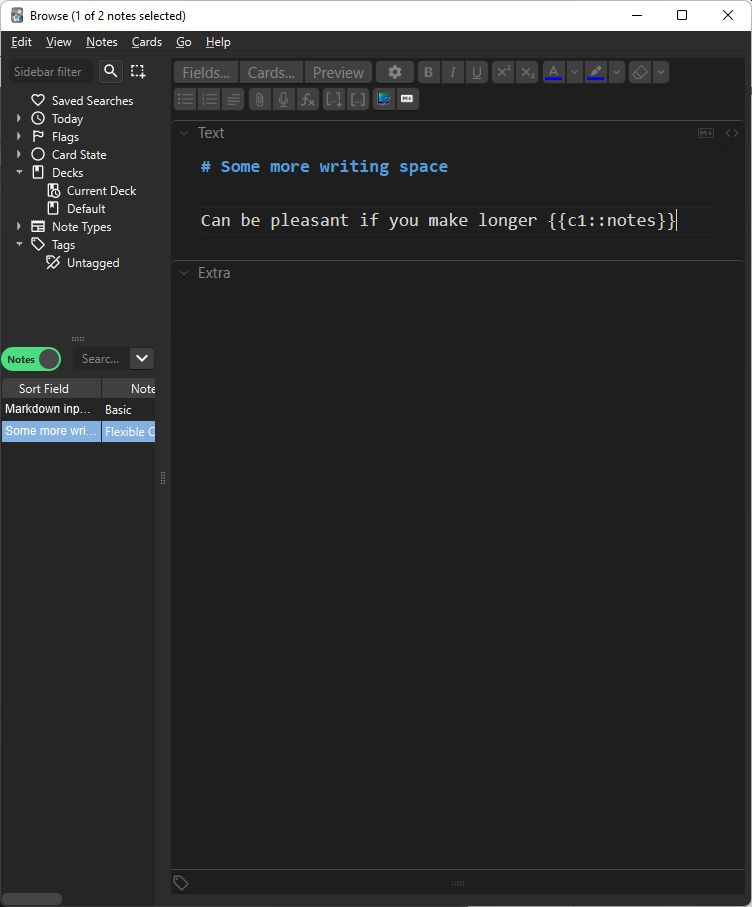
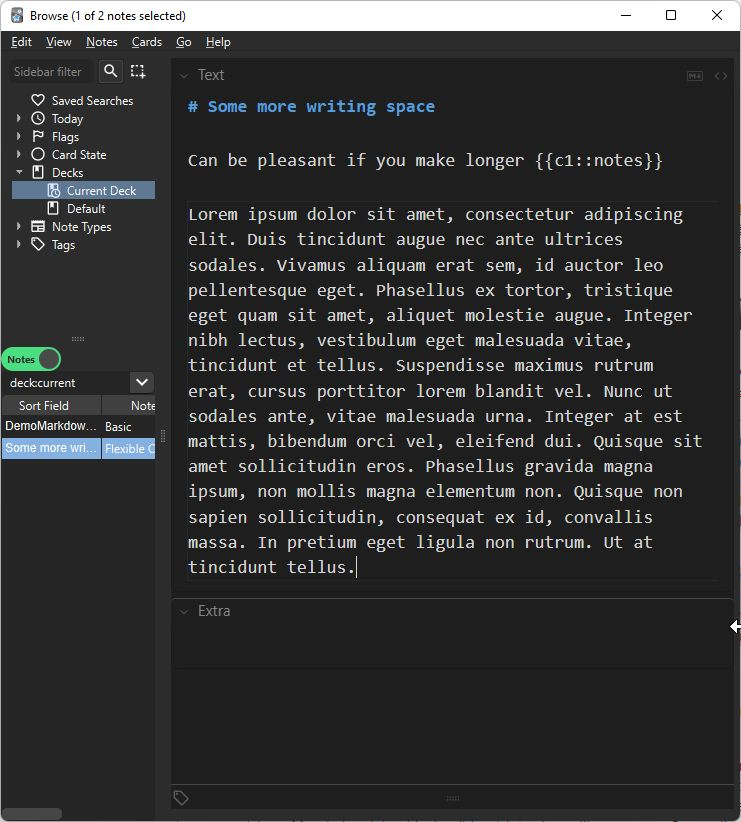
Move switch

diff --git a/bin/__init__.py b/bin/__init__.py
@@ -6,6 +6,7 @@ LABEL = "sidebar-table"
 
 #########################################################################
 def move(browser: browser):
+    """Move table to sidebar (inserting a splitter), saving/restoring splitter state"""
     # Direct copy from [browser.py](https://github.com/ankitects/anki/blob/8abcb77d9536da10a00cbe15f3149bb00c6deee0/qt/aqt/browser/browser.py#L536)
     # Only change is how to get a hold of the widget holding the table (marked below)
     def on_all_or_selected_rows_changed(self) -> None:
@@ -22,7 +23,7 @@ def move(browser: browser):
         self.singleCard = bool(self.card)
 
         # Modification: replace `self.form.splitter.widget(1).setVisible(self.singleCard)` with
-        self.sidebar_table["container"].setVisible(self.singleCard)
+        table.setVisible(self.singleCard)
 
         if self.singleCard:
             self.editor.set_note(self.card.note(), focusTo=self.focusTo)
@@ -35,18 +36,27 @@ def move(browser: browser):
         self._update_selection_actions()
         gui_hooks.browser_did_change_row(self)
 
-    tablew =  browser.table._view.parent()
+    table = browser.table._view
+    root =  table.parent()
+    grid = browser.form.gridLayout
+    switch = grid.itemAtPosition(0, 0).widget()
+    search = grid.itemAtPosition(0, 1).widget()
+    grid.removeWidget(switch)
+    grid.removeWidget(search)
+    layout = root.layout()
+    layout.removeItem(grid)
+    layout.addWidget(switch)
+    layout.addWidget(search)
+    layout.removeWidget(table)
+    layout.addWidget(table)
+
     splitter = qt.QSplitter(browser.sidebarDockWidget)
     splitter.setOrientation(Qt.Orientation.Vertical)
-    sbw = browser.sidebarDockWidget.widget()
-    splitter.addWidget(sbw)
-    splitter.addWidget(tablew)
+    splitter.addWidget(browser.sidebarDockWidget.widget())
+    splitter.addWidget(root)
+    root.setMinimumHeight(100)
     restoreSplitter(splitter, LABEL)
     browser.sidebarDockWidget.setWidget(splitter)
-    browser.sidebar_table = { # custom prop to store info
-        "container": tablew,
-        "splitter": splitter
-    }
     browser.on_all_or_selected_rows_changed = lambda: on_all_or_selected_rows_changed(browser)
     closeEvent = browser.closeEvent
     browser.closeEvent = lambda evt: (saveSplitter(splitter, LABEL), closeEvent(evt))[1]

diff --git a/src/py/__init__.py b/src/py/__init__.py
@@ -36,11 +36,25 @@ def move(browser: browser):
         self._update_selection_actions()
         gui_hooks.browser_did_change_row(self)
 
-    table =  browser.table._view.parent()
+    table = browser.table._view
+    root =  table.parent()
+    grid = browser.form.gridLayout
+    switch = grid.itemAtPosition(0, 0).widget()
+    search = grid.itemAtPosition(0, 1).widget()
+    grid.removeWidget(switch)
+    grid.removeWidget(search)
+    layout = root.layout()
+    layout.removeItem(grid)
+    layout.addWidget(switch)
+    layout.addWidget(search)
+    layout.removeWidget(table)
+    layout.addWidget(table)
+
     splitter = qt.QSplitter(browser.sidebarDockWidget)
     splitter.setOrientation(Qt.Orientation.Vertical)
     splitter.addWidget(browser.sidebarDockWidget.widget())
-    splitter.addWidget(table)
+    splitter.addWidget(root)
+    root.setMinimumHeight(100)
     restoreSplitter(splitter, LABEL)
     browser.sidebarDockWidget.setWidget(splitter)
     browser.on_all_or_selected_rows_changed = lambda: on_all_or_selected_rows_changed(browser)
